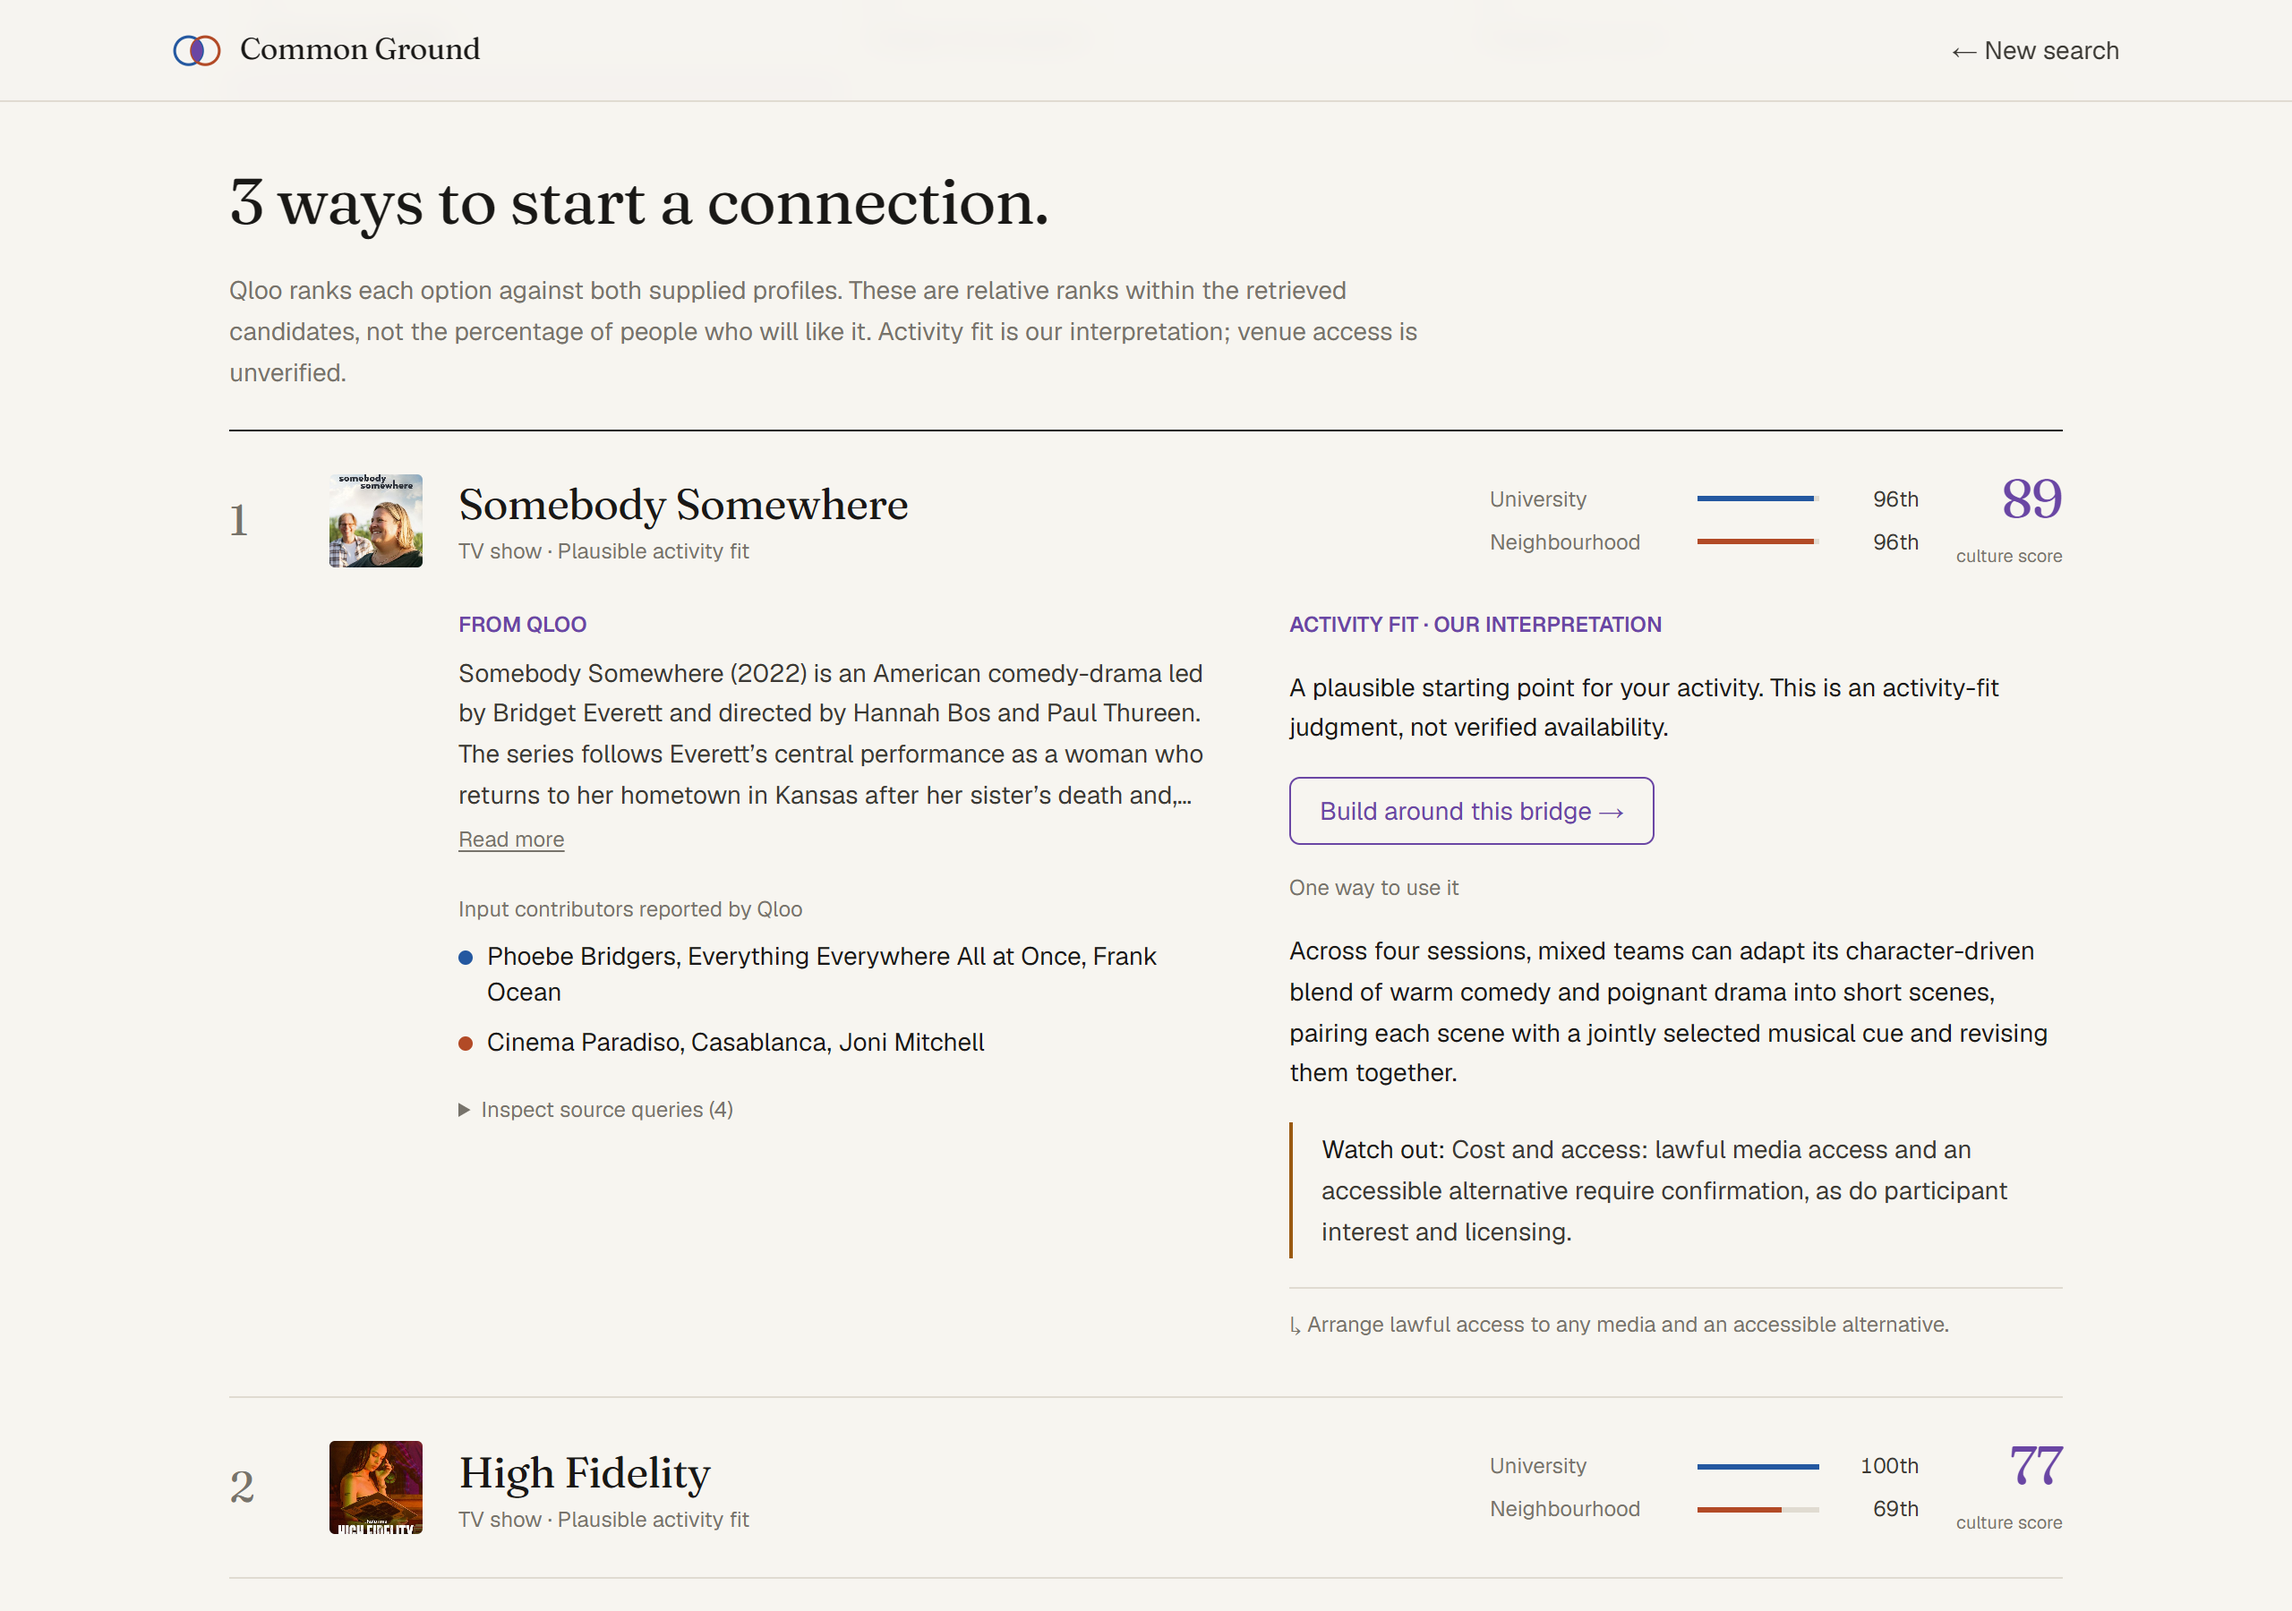
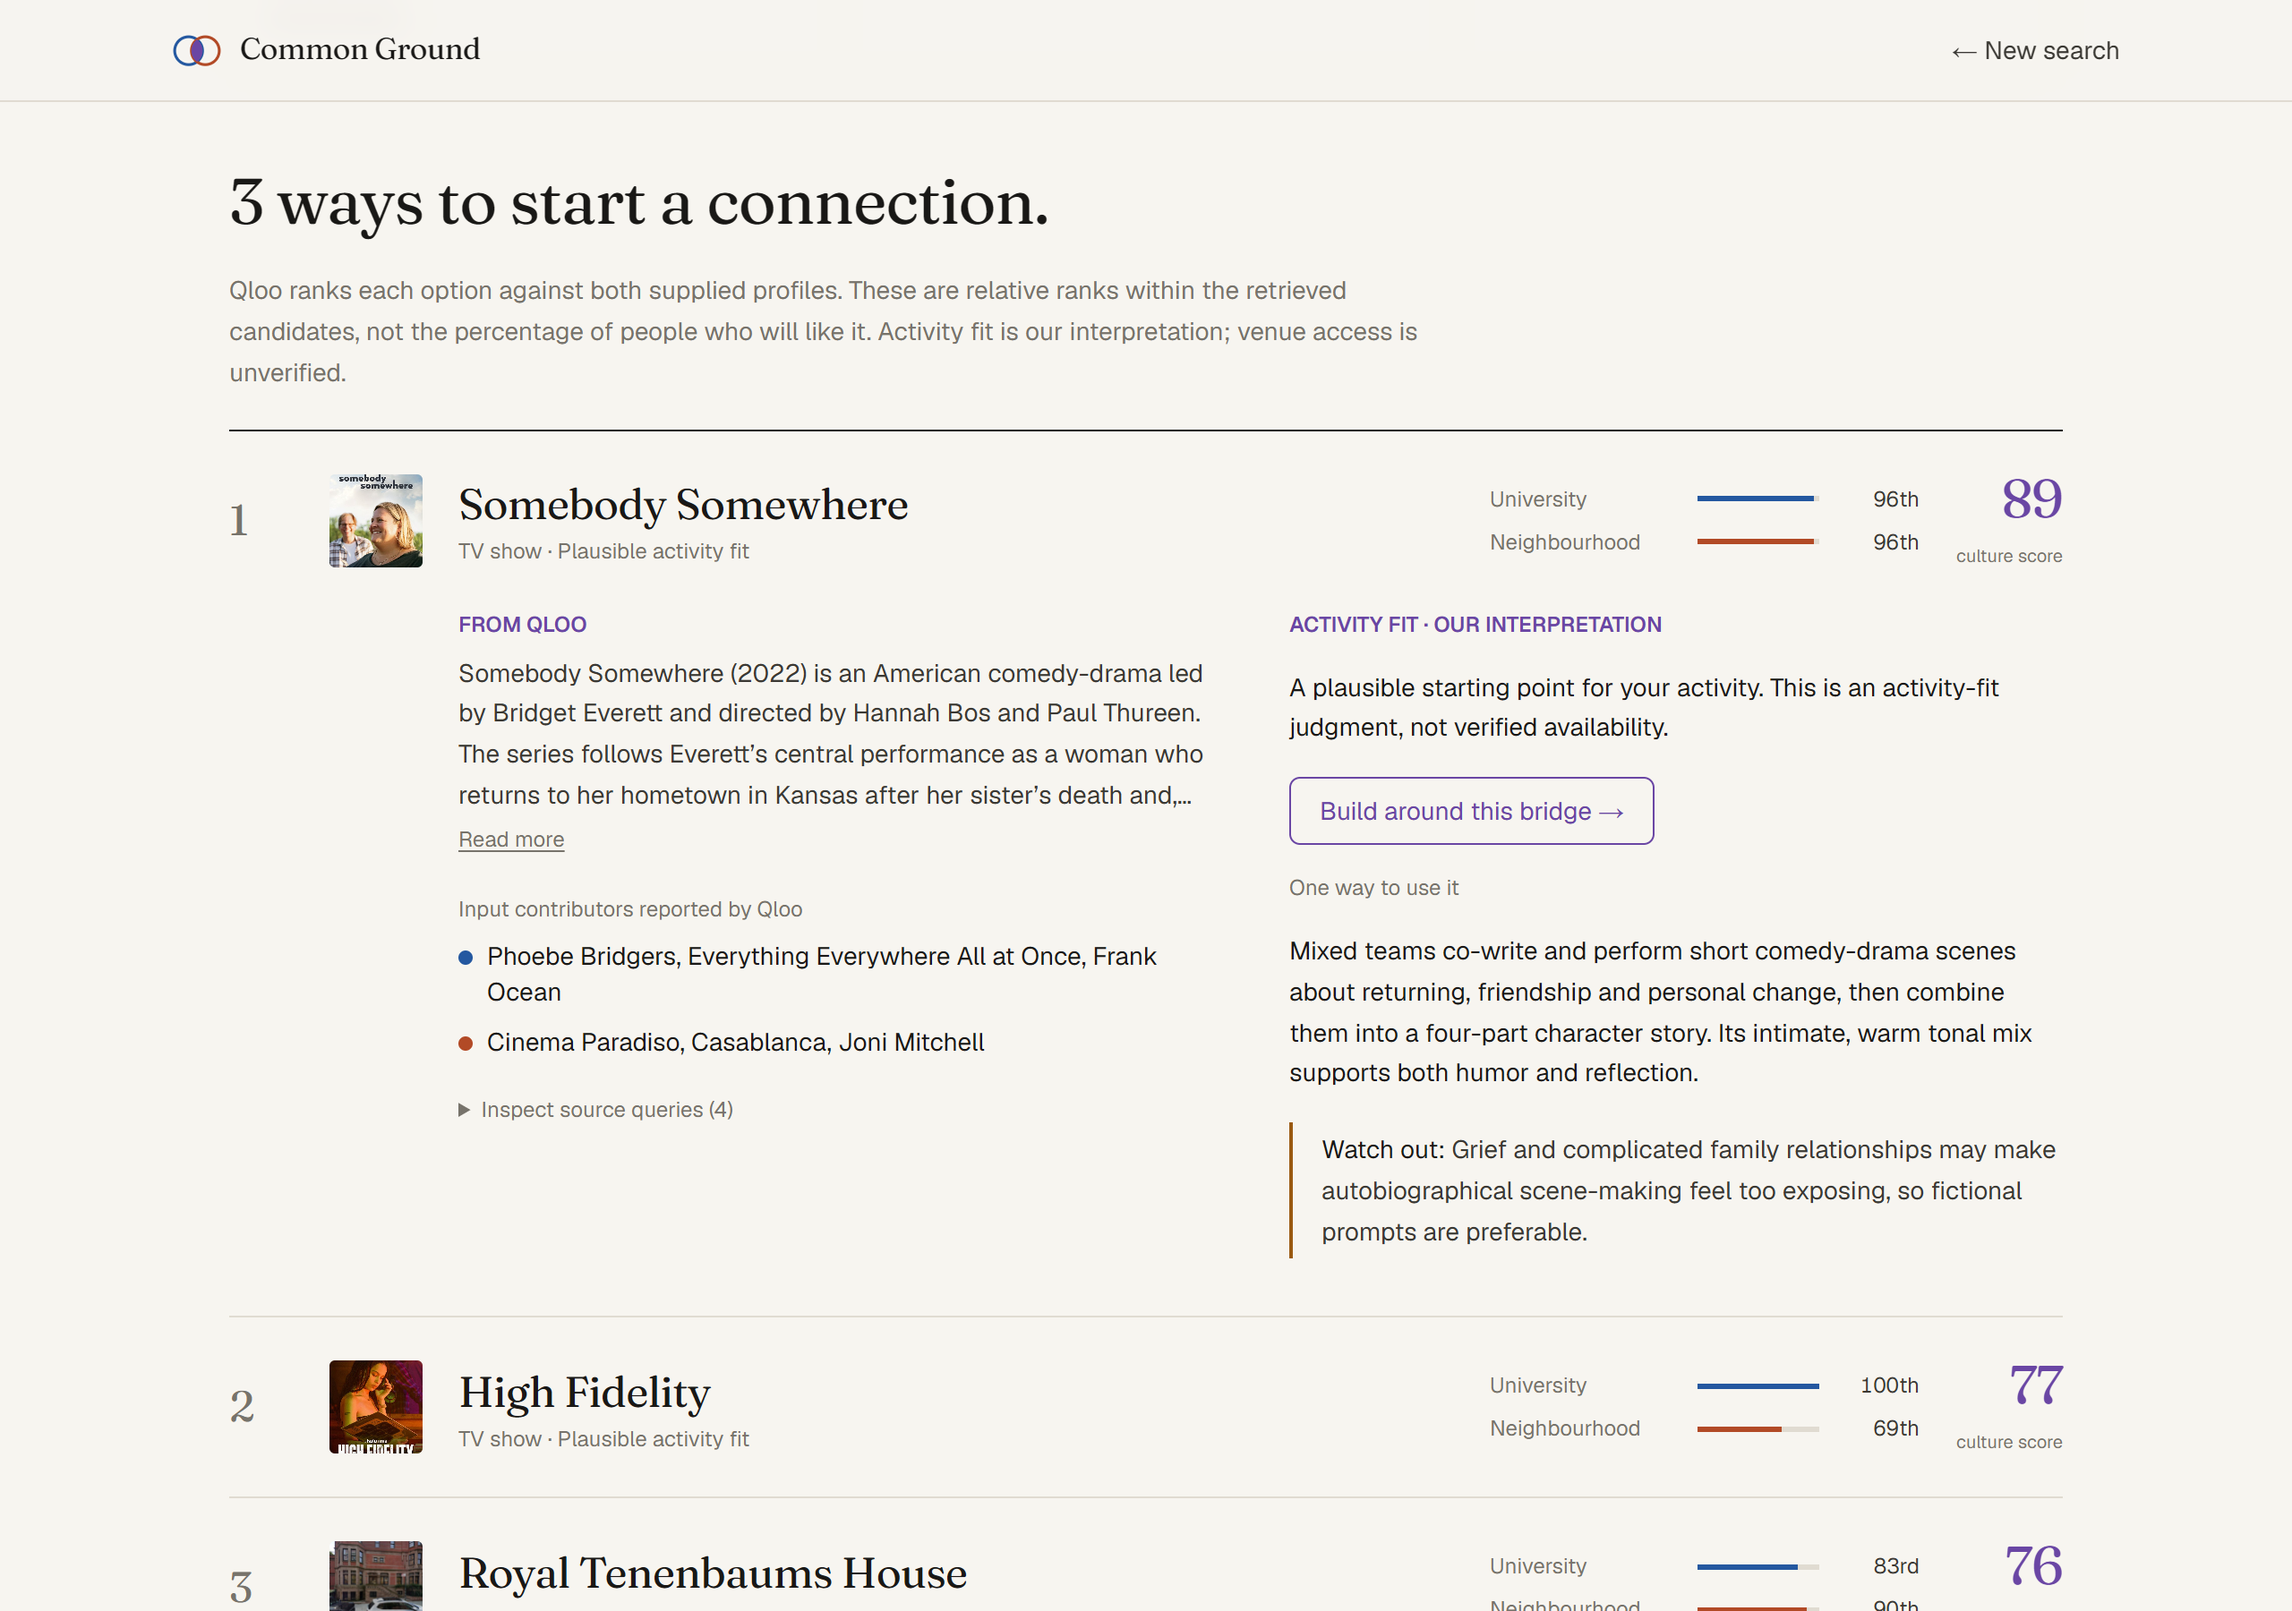
docs: refresh screenshots and README for the highlights strip

diff --git a/README.md b/README.md
@@ -18,13 +18,13 @@ The hard part is finding something **specific to these two groups**, and then ch
 
 1. **Describe both groups** with 3–8 favourites each (artists, films, TV, books, games, podcasts, places). Qloo resolves every name, and ambiguous matches like *Shōgun* (TV, book or band?) must be confirmed. Or send each group a phone link and import what they name.
 2. **Add practical choices:** activity type, participant cost, audience age, group size, an existing venue, access needs, and how adventurous the picks should be (familiar, balanced or exploratory). Free-text notes work too: *"some members are 15–17, keep it free, ideally live music"*.
-3. **Choose a bridge.** Up to three options, each ranked **separately against both groups** by Qloo, with Qloo's description and which of each group's favourites contributed.
+3. **Choose a bridge.** The page opens on three points: why these beat the obvious mainstream pick, what the same AI produced without Qloo, and what the agent decided. Below them are up to three options, each ranked **separately against both groups** by Qloo, with Qloo's description and which of each group's favourites contributed.
 4. **Shape the program.** A 4-session plan built on the chosen bridge, with distinct roles for each group. Rebuild it on another bridge in one click.
 5. **Prepare to run it.** A delivery checklist (venue, costs, access, media rights), draft invitations pitched to each group's own tastes, and a side-by-side with what the same model proposes without Qloo.
 
 | Choose a bridge | Shape the program | Prepare to run it |
 |---|---|---|
-| ![Bridges](docs/screenshots/02-bridges.png) | ![Plan](docs/screenshots/03-plan.png) | ![Checklist](docs/screenshots/04-prepare.png) |
+| ![Bridges](docs/screenshots/02-highlights.png) | ![Plan](docs/screenshots/03-plan.png) | ![Checklist](docs/screenshots/04-prepare.png) |
 
 ## Why it only works with Qloo
 
